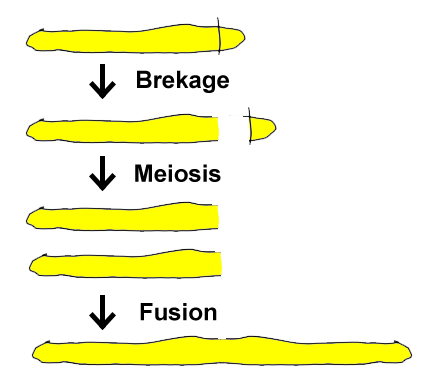
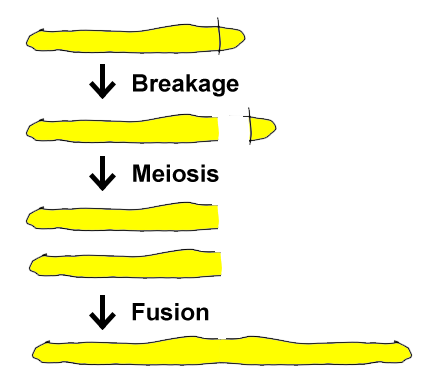
Small corrections.

Changed region(s): [[0.3088, 0.1741, 0.5867, 0.2612], [0.3088, 0.7836, 0.5249, 0.8707], [0.3088, 0.4354, 0.5249, 0.4934]]

diff --git a/SimChA/DataTypes/AberrationEnum.cs b/SimChA/DataTypes/AberrationEnum.cs
@@ -5,13 +5,14 @@ namespace SimChA.DataTypes;
 public enum AberrationEnum
 {
     ChromDeletion,
-    InternalDuplication,
-    Chromothripsis,
-    Translocation,
-    InternalDeletion,
-    Inversion,
-    BreakageFusionBridge,
-    TailDeletion,
     ChromDuplication,
-    WholeGenomeDoubling
+    TailDeletion,
+    InternalDeletion,
+    InternalDuplication,
+    Inversion,
+    Translocation,
+    BreakageFusionBridge,
+    WholeGenomeDoubling,
+    Chromothripsis,
+    Chromoplexy,
 }

diff --git a/SimChA/IO/SimParams.cs b/SimChA/IO/SimParams.cs
@@ -18,10 +18,10 @@ public record SimParams(
     FractionAbbP p_BreakageFusionBridge,
     BaseAbbP p_WholeGenomeDoubling)
 {
-    public static SimParams CreateSimParams(int Seed, bool IsFemale, Dictionary<AberrationEnum, BaseAbbP> aberrations)
+    public static SimParams CreateSimParams(int seed, bool isFemale, Dictionary<AberrationEnum, BaseAbbP> aberrations)
         => new(
-            Seed,
-            IsFemale,
+            seed,
+            isFemale,
             aberrations[AberrationEnum.Chromothripsis],
             (FractionAbbP)aberrations[AberrationEnum.Inversion],
             (FractionAbbP)aberrations[AberrationEnum.Translocation],

diff --git a/SimChA/Simulation/AberrationsInfo.cs b/SimChA/Simulation/AberrationsInfo.cs
@@ -9,7 +9,7 @@ namespace SimChA.Simulation;
 public class AberrationsInfo
 {
     public Dictionary<AberrationEnum, BaseAbbP> Map { get; }
-    public double RatesSum { get; }
+    private double RatesSum { get; }
 
     public AberrationsInfo(SimParams simParams)
     {
@@ -43,10 +43,10 @@ public class AberrationsInfo
             [AberrationEnum.BreakageFusionBridge] = new FractionAbbP(1, .1),
             [AberrationEnum.WholeGenomeDoubling] = new BaseAbbP( 1),
         };
+    
     public AberrationEnum PickRandomMutation(Random rnd)
     {
-        double ratesSum = RatesSum;
-        double sample = ContinuousUniformDistribution.Sample(rnd, 0, ratesSum);
+        double sample = ContinuousUniformDistribution.Sample(rnd, 0, RatesSum);
         foreach (var rate in Map)
         {
             if (sample <= rate.Value.Likelihood)

diff --git a/SimChA/IO/FileIO.cs b/SimChA/IO/FileIO.cs
@@ -12,11 +12,10 @@ public class FileIO
 
     private const string SUBCLONES_FILENAME = "subclones.out";
     private const string COPYNUMBERS_FILENAME = "copynumbers.out";
-
-    // private const string COPYNUMBERS_FILENAME = "copynumbers.out";
     private const string BAF_FILENAME = "baf.out";
     private const string LOGR_FILENAME = "logr.out";
     private const string SIM_PARAMS_FILENAME = "sim_params.json";
+    
     public FileIO(string rootFolder)
     {
         Timestamp = DateTime.Now.ToString("yy_MM_dd_HH_mm_ss");

diff --git a/SimChA/Computation/SNPMetrics.cs b/SimChA/Computation/SNPMetrics.cs
@@ -55,7 +55,7 @@ public static class SNPMetrics
 
     public static void CalcMultipleSubclones()
     {
-        // TODO: Should take multiple subclones as input and mix them
+        // TODO: Should take multiple clones as input and mix them
         throw new NotImplementedException();
     }
 

diff --git a/SimChA/Simulation/Karyotype.cs b/SimChA/Simulation/Karyotype.cs
@@ -115,6 +115,7 @@ public class Karyotype
                 break;
 
             case AberrationEnum.Translocation:
+                // TODO: This is only crossing in the 5-3 direction on both strands. Should be check against literature.
                 var chrPair = RandomChrs(rnd, 2);
                 var splits = chrPair.Select(c => c.Split(GetUniformPos(rnd, c), true)).ToList();
                 chrPair[0].Join(splits[1]);